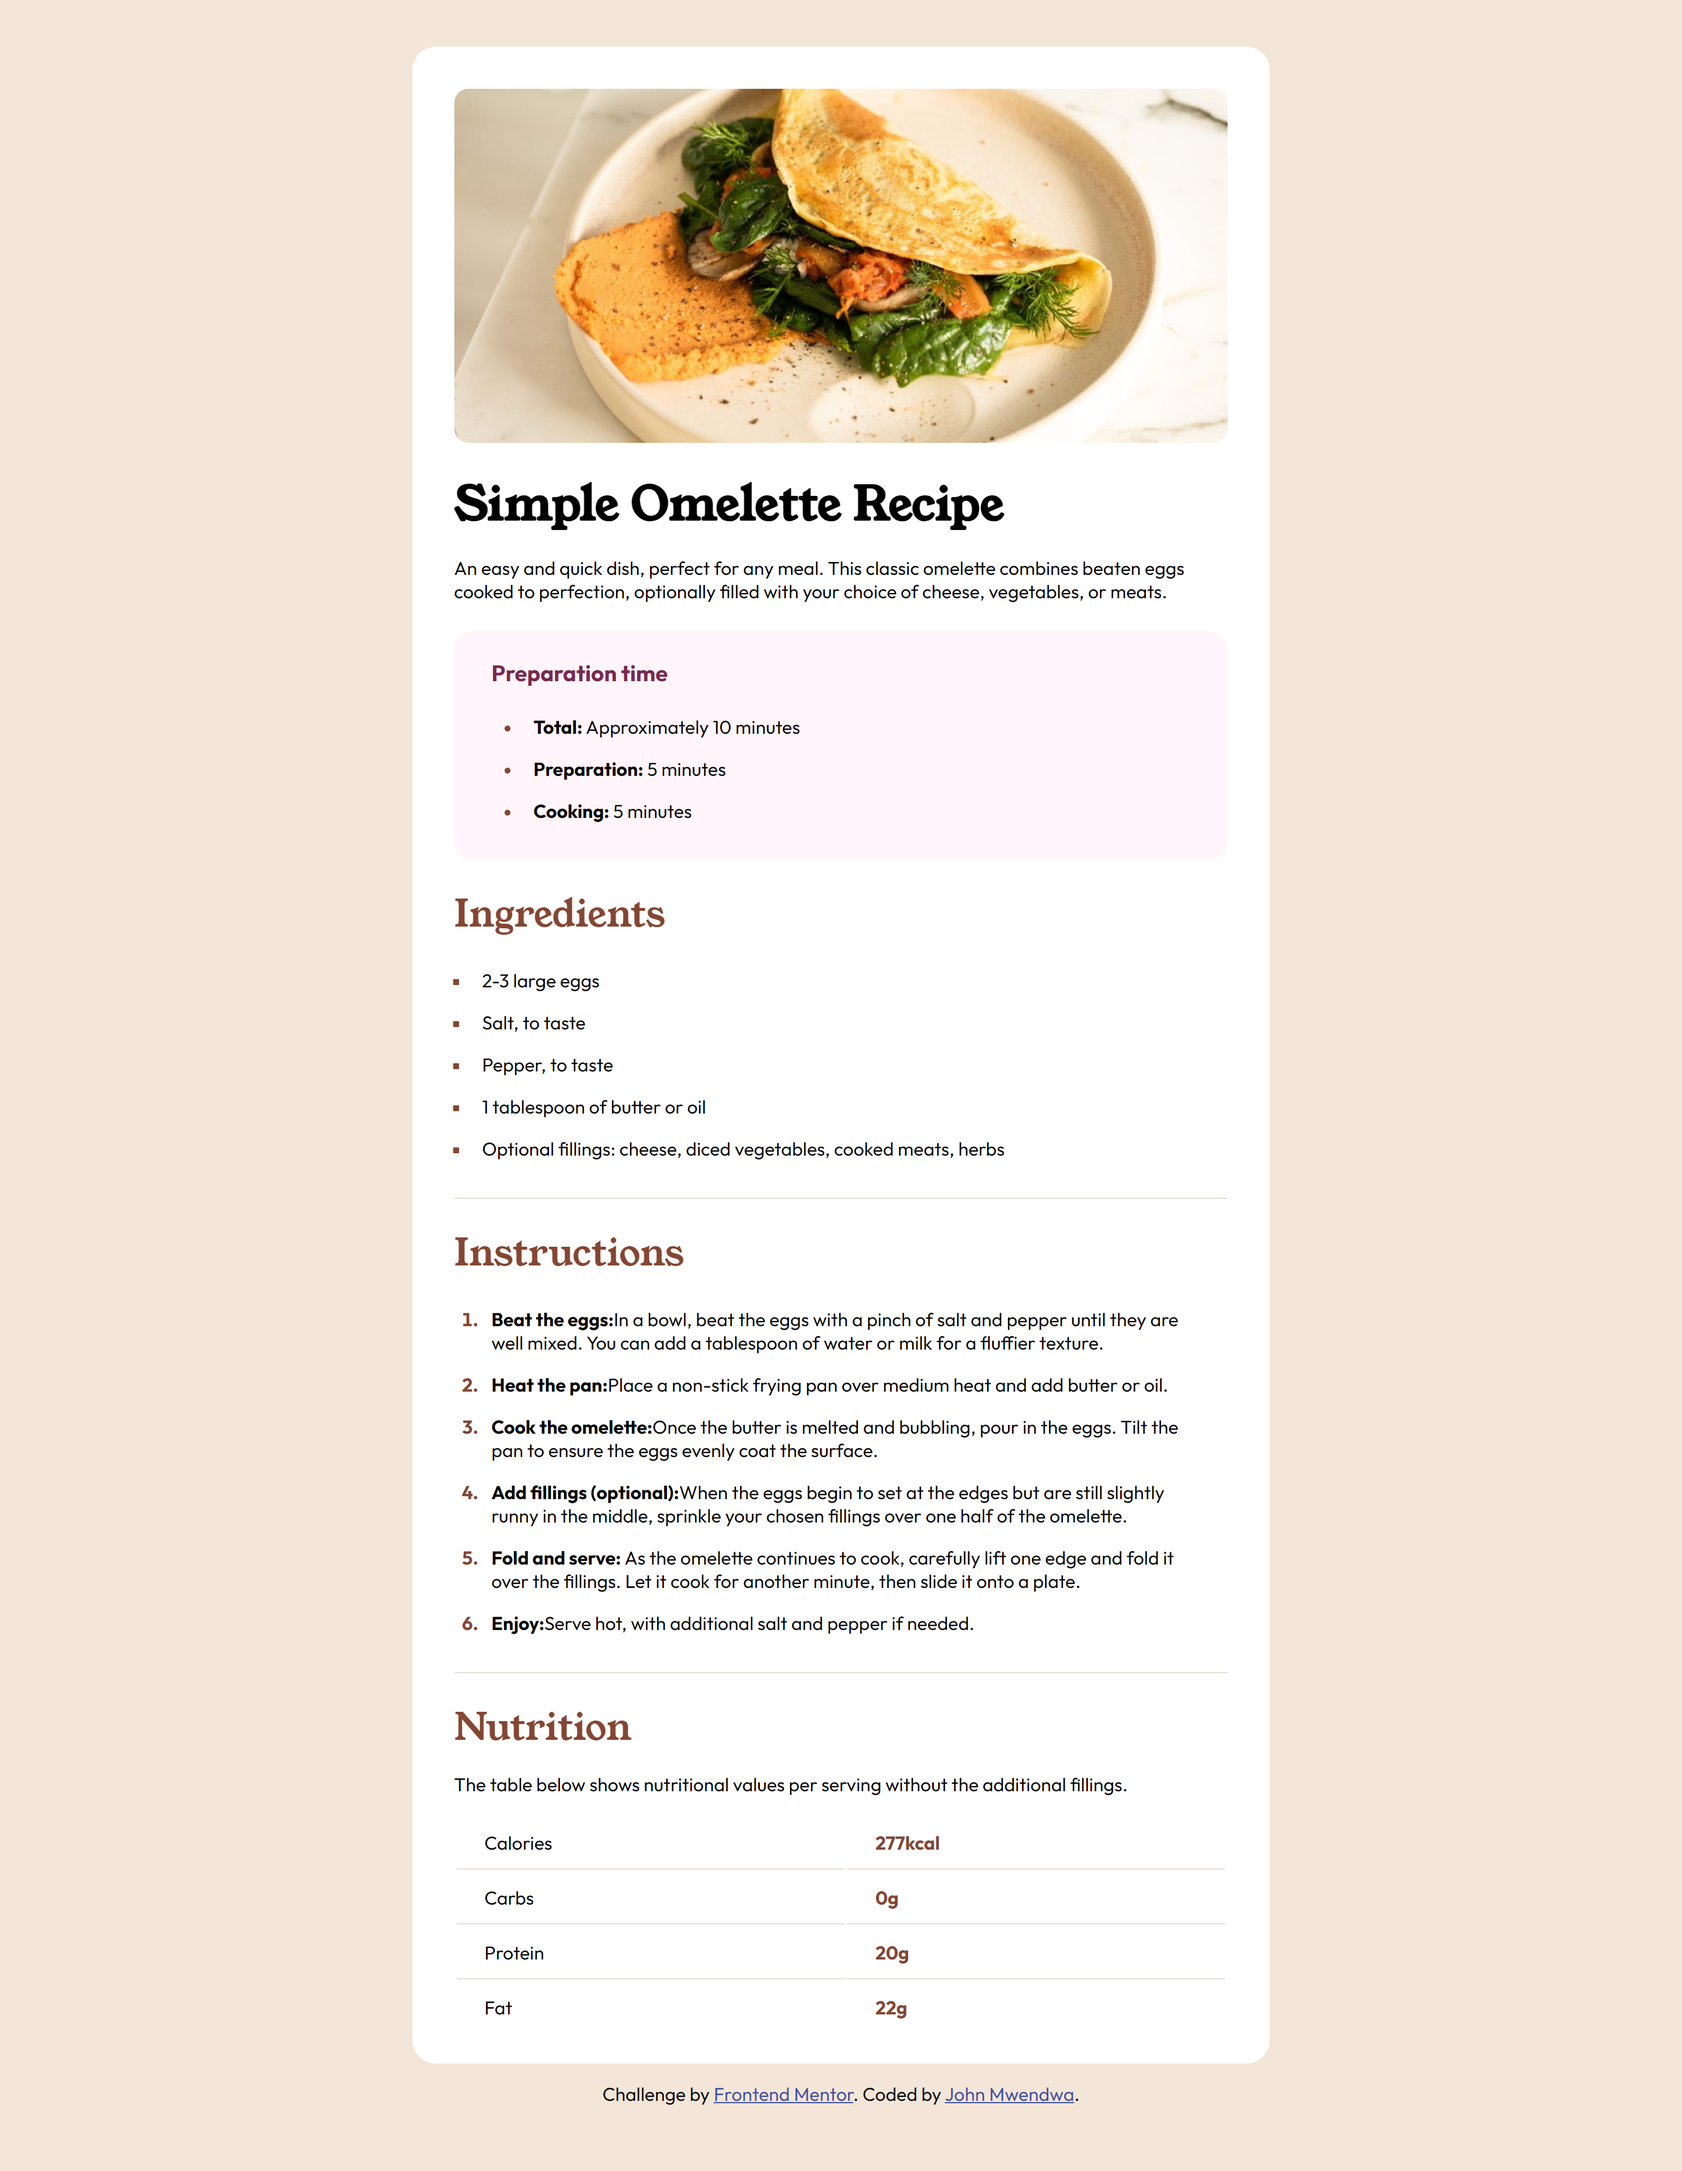
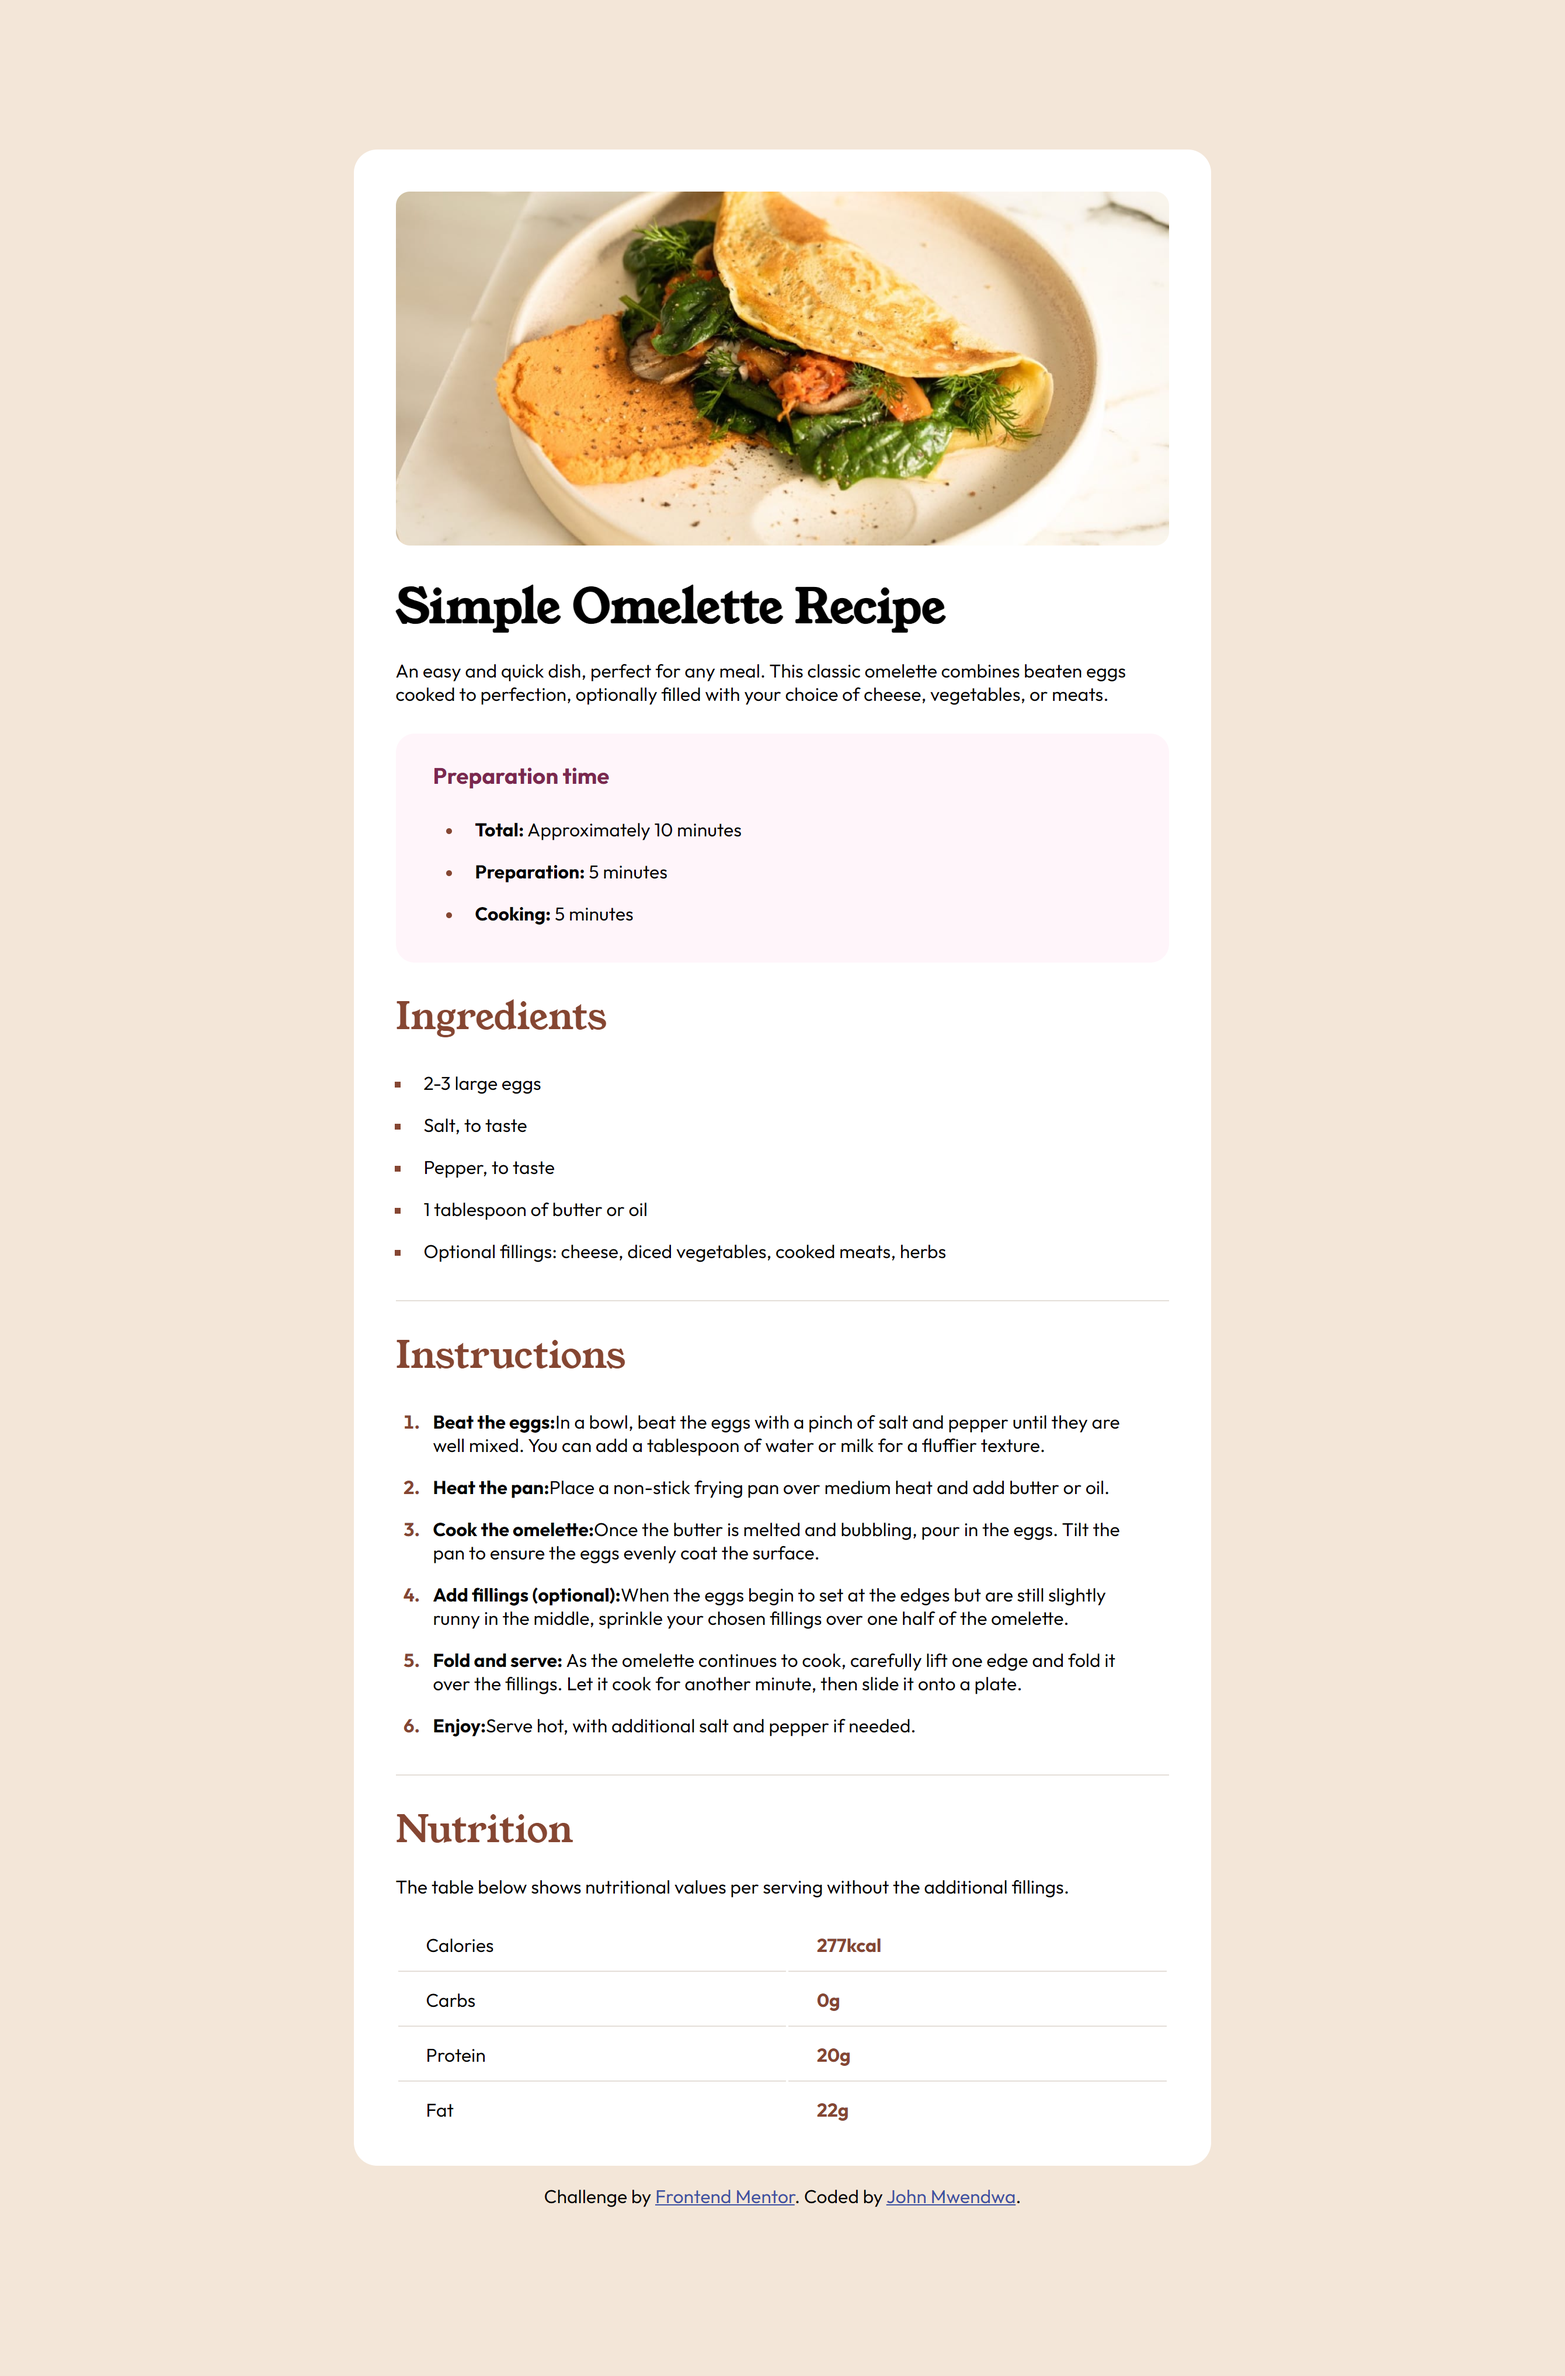
increase heading font size

Changed region(s): [[0.2168, 0.0, 0.7743, 0.9677], [0.4026, 0.8116, 0.4336, 0.8428]]

diff --git a/style.css b/style.css
@@ -58,10 +58,14 @@ main {
   font-weight: 500;
 }
 
-.prep__heading {
+section .prep__heading {
   color: var(--dark-rasberry);
+  margin: 0;
   margin-bottom: 1rem;
-  font-weight: bold;
+  font-size: 1.2em;
+  font-weight: 900;
+
+  font-family: "Outfit", sans-serif;
 }
 
 ::marker {
@@ -128,7 +132,7 @@ tr:last-child td {
 
 @media screen and (min-width: 640px) {
   body {
-    padding: 7.5rem;
+    padding: 8rem;
   }
 
   .container {
@@ -147,9 +151,6 @@ tr:last-child td {
   }
   h2 {
     font-size: 2em;
-  }
-  .prep__heading {
-    font-size: 1.2em;
   }
 
   .section__preparation {

diff --git a/index.html b/index.html
@@ -43,7 +43,7 @@
           </p>
         </section>
         <section class="section section__preparation">
-          <p class="prep__heading">Preparation time</p>
+          <h2 class="prep__heading">Preparation time</h2>
           <ul>
             <li><b>Total:</b> Approximately 10 minutes</li>
             <li><b>Preparation:</b> 5 minutes</li>
